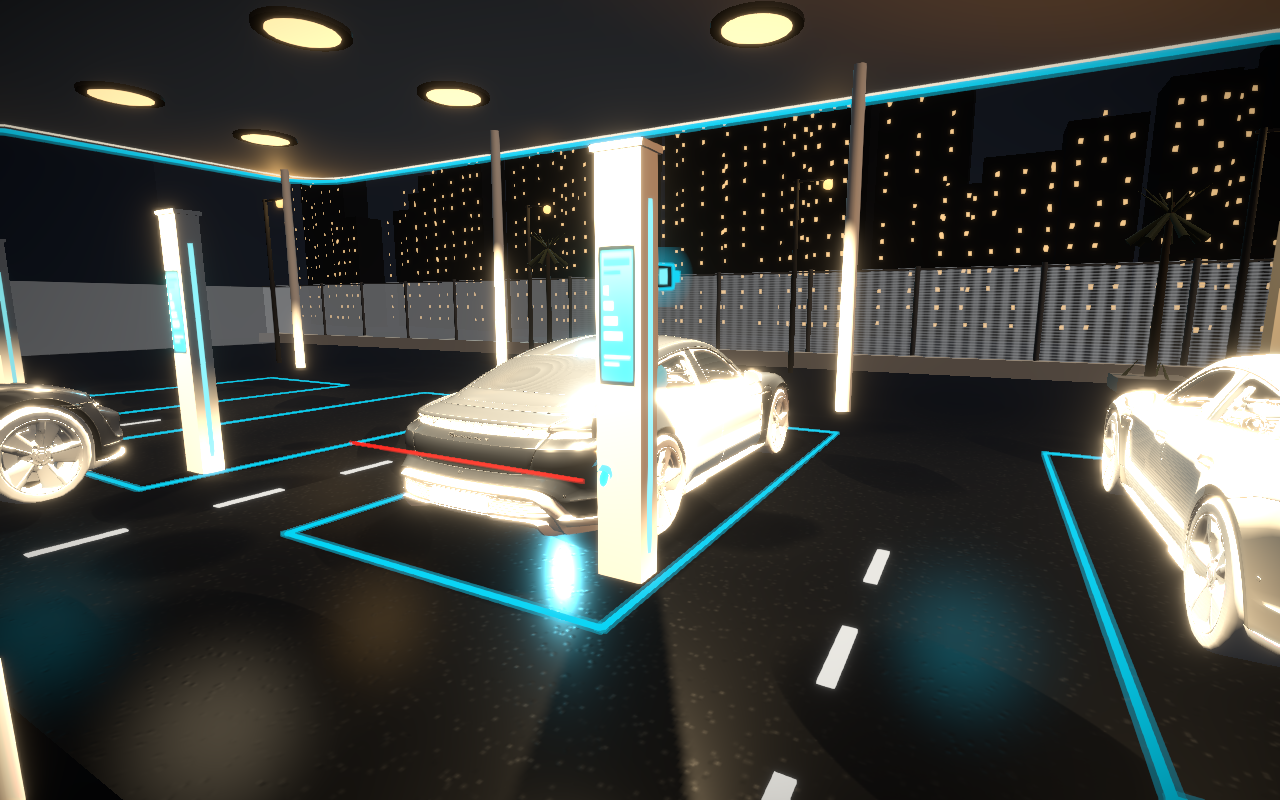
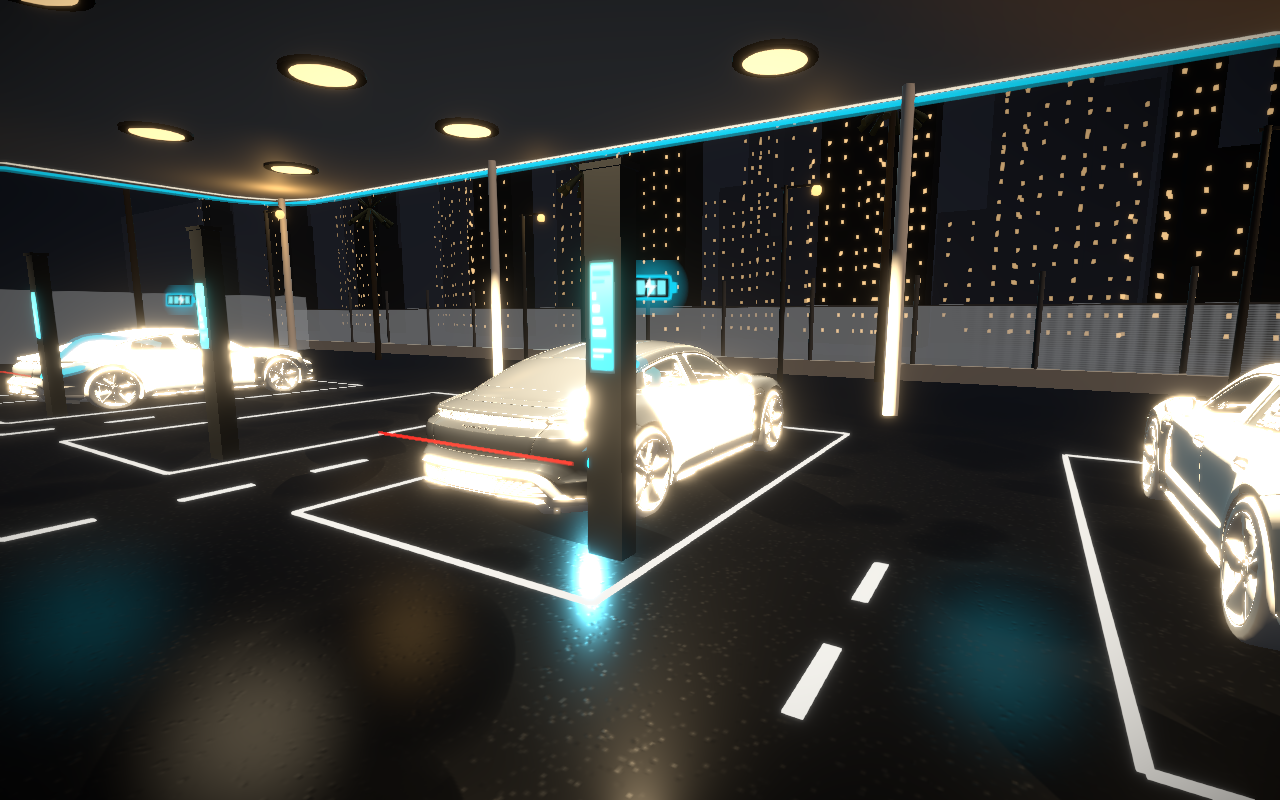
feat: plaza stills and second-pass soffit, planters, wide camera
Capture startNight, rear-34, and elevated lot-wide. Brighten the white canopy soffit, add another planter arc, raise the wide-still camera.

diff --git a/src/world/station.ts b/src/world/station.ts
@@ -285,7 +285,7 @@ function roundedRectShape(w: number, d: number, r: number): THREE.Shape {
 
 function addCanopy(root: THREE.Group): void {
   const shell = mat(0xf2eee6, { roughness: 0.38, metalness: 0.06, envMapIntensity: 0.7 });
-  const under = mat(0xe4dfd6, { roughness: 0.62, metalness: 0.04 });
+  const under = mat(0xf7f3ea, { roughness: 0.48, metalness: 0.04 });
   const topGeo = new THREE.ExtrudeGeometry(roundedRectShape(30.4, 14.4, 2.15), {
     depth: 0.2,
     bevelEnabled: true,
@@ -343,7 +343,7 @@ function addCanopy(root: THREE.Group): void {
   root.add(bloom);
 
   const innerLed = new THREE.MeshBasicMaterial({ color: 0xfff4dc, toneMapped: false });
-  const inner = new THREE.Mesh(new THREE.TubeGeometry(curve, 120, 0.02, 6, true), innerLed);
+  const inner = new THREE.Mesh(new THREE.TubeGeometry(curve, 140, 0.035, 6, true), innerLed);
   inner.position.set(0, 5.08, 3.1);
   inner.scale.set(0.94, 1, 0.94);
   root.add(inner);
@@ -358,7 +358,7 @@ function addCanopy(root: THREE.Group): void {
     }
   }
 
-  const well = mat(0x0a0a0e, { roughness: 0.78 });
+  const well = mat(0x2a2824, { roughness: 0.62 });
   const lamp = new THREE.MeshStandardMaterial({
     color: 0xffe2b0,
     emissive: 0xffd090,
@@ -557,9 +557,10 @@ function addPlanterArc(
 }
 
 function addPlanters(root: THREE.Group): void {
-  addPlanterArc(root, -1.2, -4.2, 8.6, 3.5, 5.15, 12);
-  addPlanterArc(root, 2.4, 12.8, 16, 3.7, 5.6, 10);
-  addPlanterArc(root, -14.5, 2.2, 4.4, -0.4, 1.4, 6);
+  addPlanterArc(root, -1.2, -4.2, 8.6, 3.5, 5.15, 14);
+  addPlanterArc(root, 2.4, 12.8, 16, 3.7, 5.6, 12);
+  addPlanterArc(root, -14.5, 2.2, 4.4, -0.4, 1.4, 7);
+  addPlanterArc(root, 10.8, -6.4, 7.2, 2.2, 3.6, 8);
   for (const [x, z, h] of [
     [-16.4, 11.2, 6.2],
     [-10.8, 13.6, 5.6],

diff --git a/src/world/layout.ts b/src/world/layout.ts
@@ -19,10 +19,10 @@ export const PAVILION = { x: -13.4, z: 4.4, yaw: -0.35 };
 
 /** Elevated wide-still camera (place x,z + eyeY, then lookAt). */
 export const WIDE_SHOT = {
-  x: 6.4,
-  z: -16.8,
-  eyeY: 11.6,
-  yaw: 0.18,
-  pitch: -0.72,
-  lookAt: { x: -1.2, y: 1.1, z: 3.8 },
+  x: 7.2,
+  z: -18.4,
+  eyeY: 13.4,
+  yaw: 0.22,
+  pitch: -0.78,
+  lookAt: { x: -0.6, y: 1.0, z: 4.2 },
 } as const;

diff --git a/README.md b/README.md
@@ -40,7 +40,7 @@ Site line: **DRIVE IN. CHARGE UP. ZIP OUT.**
 
 ## Visual bar
 
-Cinematic WebGL lot (Unreal-style approximation, no Unreal install): ACES Filmic + PCF-soft shadows, night PMREM probe, `postprocessing` bloom / vignette / SMAA, wet asphalt with two puddle Reflectors (not a full-lot chrome mirror). White rounded canopy with recessed cans and a cyan edge, tall white pedestals with blue screens, glass lounge with warm furniture silhouettes, fence-line skyline, orange `!` and cyan battery pips. Guest cars are **2020 Porsche Taycan** by martin002 on Sketchfab (CC BY 4.0) — a 4-door EV with wet-night clearcoat and a single thin red LED bar. See `public/models/porsche-taycan-2020.ATTRIBUTION.txt`.
+Cinematic WebGL lot (Unreal-style approximation, no Unreal install): ACES Filmic + PCF-soft shadows, night PMREM probe, `postprocessing` bloom / vignette / SMAA, wet asphalt with two puddle Reflectors. White rounded canopy with underside LED and cyan edge, black pedestals with blue screens, glass lounge with warm orange interior, curved white planter walls, palms, overlook skyline. Guest cars are **2020 Porsche Taycan** by martin002 on Sketchfab (CC BY 4.0). See `public/models/porsche-taycan-2020.ATTRIBUTION.txt`.
 
 Official cream/red Zaps wordmarks only. Palette: `#E63225` `#1E1E24` `#E89A2E` `#00D4F5` `#F5F0E8`.
 
